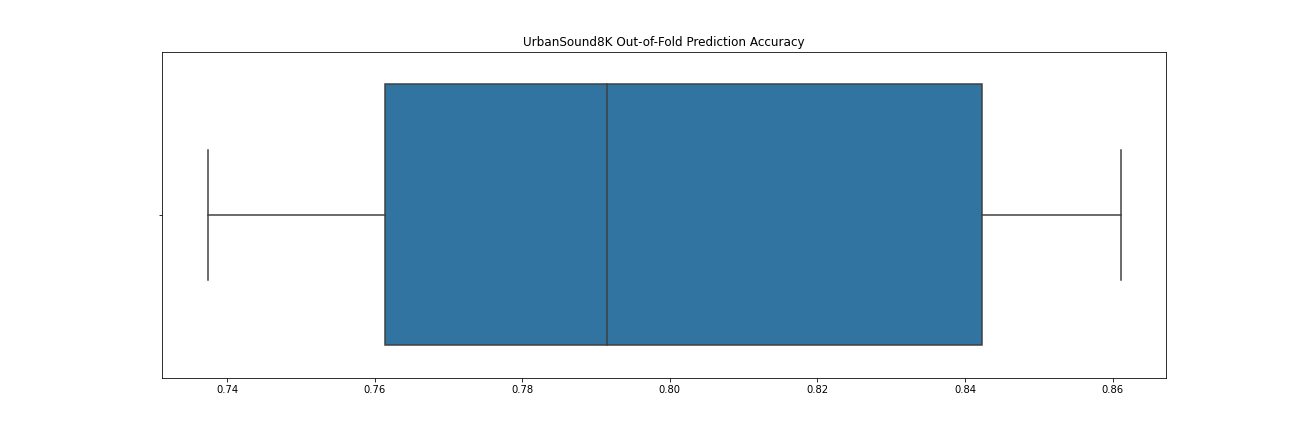
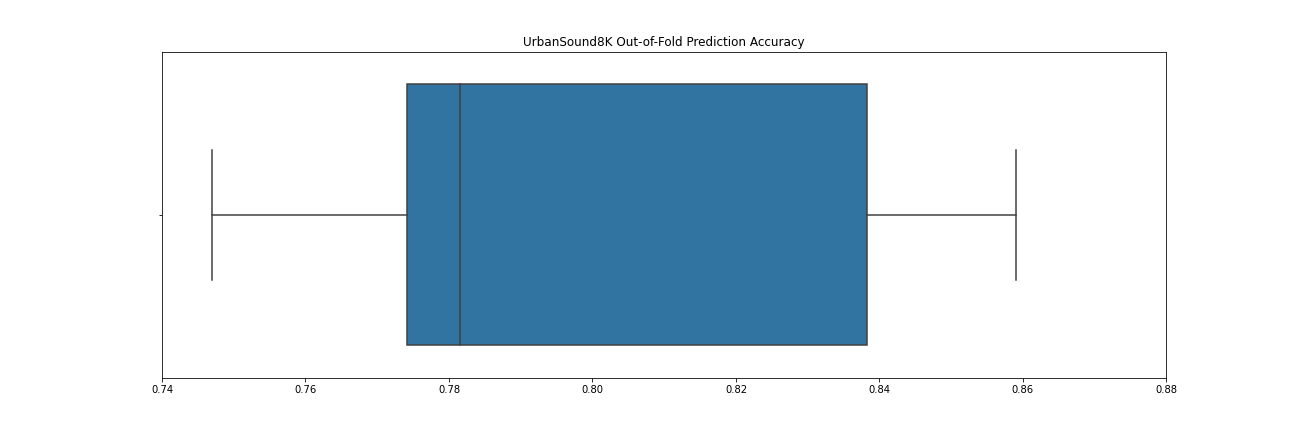
update README and file processing parameters

diff --git a/train_cnn.py b/train_cnn.py
@@ -83,7 +83,7 @@ class ConvBlock(nn.Module):
         self.conv2 = nn.Sequential(
             nn.Conv2d(out_channels, out_channels, 3, 1, 1),
             nn.ReLU(),
-            nn.Dropout(0.4)
+            nn.Dropout(0.5)
         )
 
         self._init_weights()
@@ -116,7 +116,7 @@ class Classifier(nn.Module):
         )
         
         self.fc = nn.Sequential(
-            nn.Dropout(0.5),
+            nn.Dropout(0.4),
             nn.Linear(512, 128),
             nn.PReLU(),
             nn.BatchNorm1d(128),
@@ -132,7 +132,7 @@ class Classifier(nn.Module):
         return x
 
 model_params = {
-    'num_epochs': 50, # increase after testing
+    'num_epochs': 50, 
     'batch_size': 64,
     'learning_rate': 0.001,
     'num_clases': 10, 
@@ -240,9 +240,6 @@ for sub_dir in sub_dirs:
 
             avg_val_loss += loss.item() / len(valid_loader)
             
-        # valid_preds_tensor = torch.from_numpy(valid_preds)
-        # y_valid_tensor = torch.from_numpy(y_valid).type_as(valid_preds_tensor)
-        # epoch_val_loss = criterion(valid_preds_tensor, y_valid)
         accuracy = sum(1 for x,y in zip(valid_labels, valid_preds.argmax(axis=1).tolist()) if x == y) / len(valid_labels)    
             
         scheduler.step()

diff --git a/file-processing.py b/file-processing.py
@@ -52,8 +52,8 @@ if not os.path.exists(model_save_directory):
 melspec_params = {
     'n_mels': 128,
     'duration': 4*22050,
-    'hop_length': 347*4,
-    'n_fft': 128*20,
+    'hop_length': 512,
+    'n_fft': 2048,
     'fmin': 20
 }
 

diff --git a/README.md b/README.md
@@ -1,7 +1,13 @@
 # Audio Classification Using Mel Spectrograms
 
-The files in this repo provide a basic introduction to classification of audio data using Mel spectrograms to train a Convolutional Neural Network (CNN). Data for this project were acquired from the [UrbanSound8K dataset](https://urbansounddataset.weebly.com/urbansound8k.html). Code for this project is included in the notebook file. Prior to running the notebook, you will need to download the UrbanSound8K dataset and save the downloaded directory in your project folder. 
+The files in this repo provide a basic introduction to classification of audio data using Mel spectrograms to train a Convolutional Neural Network (CNN). Data for this project were acquired from the [UrbanSound8K dataset](https://urbansounddataset.weebly.com/urbansound8k.html). Code for this project is included in the notebook file. It is also split into individual scripts for generation of example spectrograms, file processing, and model training. Prior to running the notebook or scripts, you will need to download the UrbanSound8K dataset and save the downloaded directory in your project folder. The dataset can be found at the link above. Alternatively, you can [download it from Kaggle](https://www.kaggle.com/chrisfilo/urbansound8k).  
 
-It is highly recommended that this notebook be run using a GPU for model training. Please note that the notebook generates a numpy array for each audio file representing its Mel spectrogram and saves the array as an NPZ file for processing later. These files, along with the raw audio files from UrbanSound8K, are not included in this repo to conserve space.
+It is highly recommended that the notebook and/or scripts be run using a GPU for model training. Please note that the notebook generates a numpy array for each audio file representing its Mel spectrogram and saves the array as an NPZ file for processing later. These files, along with the raw audio files from UrbanSound8K, are not included in this repo to conserve space.
 
-I also wrote a Medium article outlining the process used to complete this project. Please give it some claps if you find it helpful. 
+I also wrote a Medium article outlining the process used to complete this project:
+
+
+[Urban Environmental Audio Classification Using Mel Spectrograms](https://medium.com/@scottmduda/urban-environmental-audio-classification-using-mel-spectrograms-706ee6f8dcc1)
+
+
+Please give it some claps if you find it helpful!
